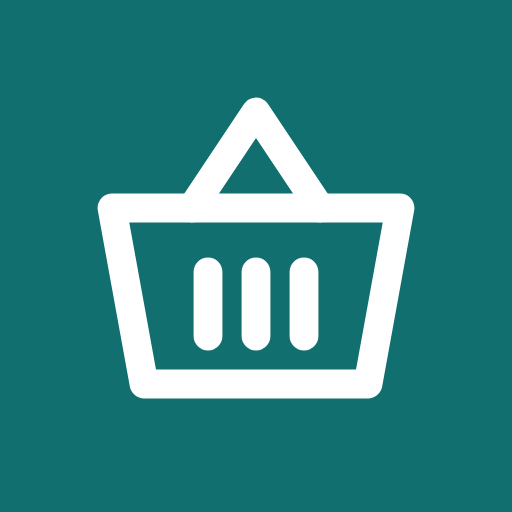
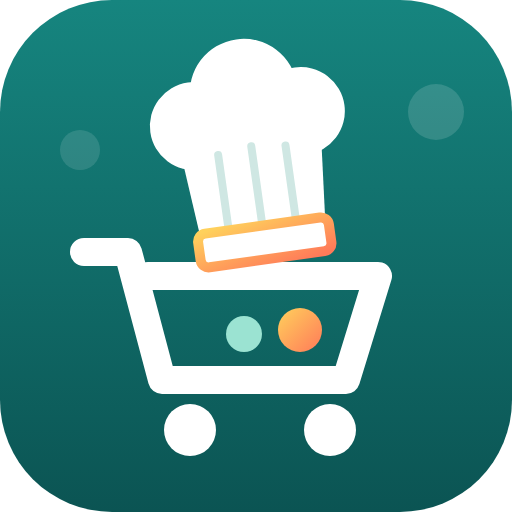
Nouvelle icône : caddie coiffé d'une toque de chef (app, écran d'accueil iPhone, notifications)
Claude-Session: https://claude.ai/code/session_01JLNVVnrdmBRioXSJJEC88x

diff --git a/index.html b/index.html
@@ -6,7 +6,7 @@
     <meta name="theme-color" content="#0E5F5E" />
     <meta name="apple-mobile-web-app-capable" content="yes" />
     <meta name="apple-mobile-web-app-title" content="Courses" />
-    <link rel="apple-touch-icon" href="/icon-192.png" />
+    <link rel="apple-touch-icon" href="/apple-touch-icon.png" />
     <link rel="icon" href="/icon.svg" type="image/svg+xml" />
     <link rel="preconnect" href="https://fonts.googleapis.com" />
     <link href="https://fonts.googleapis.com/css2?family=Fredoka:wght@500;600;700&family=Nunito:wght@400;600;700;800&display=swap" rel="stylesheet" />

diff --git a/vite.config.ts b/vite.config.ts
@@ -30,7 +30,8 @@ export default defineConfig({
         icons: [
           { src: 'icon.svg', sizes: 'any', type: 'image/svg+xml', purpose: 'any' },
           { src: 'icon-192.png', sizes: '192x192', type: 'image/png' },
-          { src: 'icon-512.png', sizes: '512x512', type: 'image/png' }
+          { src: 'icon-512.png', sizes: '512x512', type: 'image/png' },
+          { src: 'icon-maskable-512.png', sizes: '512x512', type: 'image/png', purpose: 'maskable' }
         ]
       }
     })

diff --git a/src/sw.ts b/src/sw.ts
@@ -20,7 +20,7 @@ self.addEventListener('push', (event) => {
     self.registration.showNotification(data.title ?? 'Nos courses', {
       body: data.body ?? 'La liste a été mise à jour',
       icon: 'icon-192.png',
-      badge: 'icon-192.png',
+      badge: 'badge-96.png',
       tag: data.tag ?? 'liste',
       lang: 'fr'
     })
